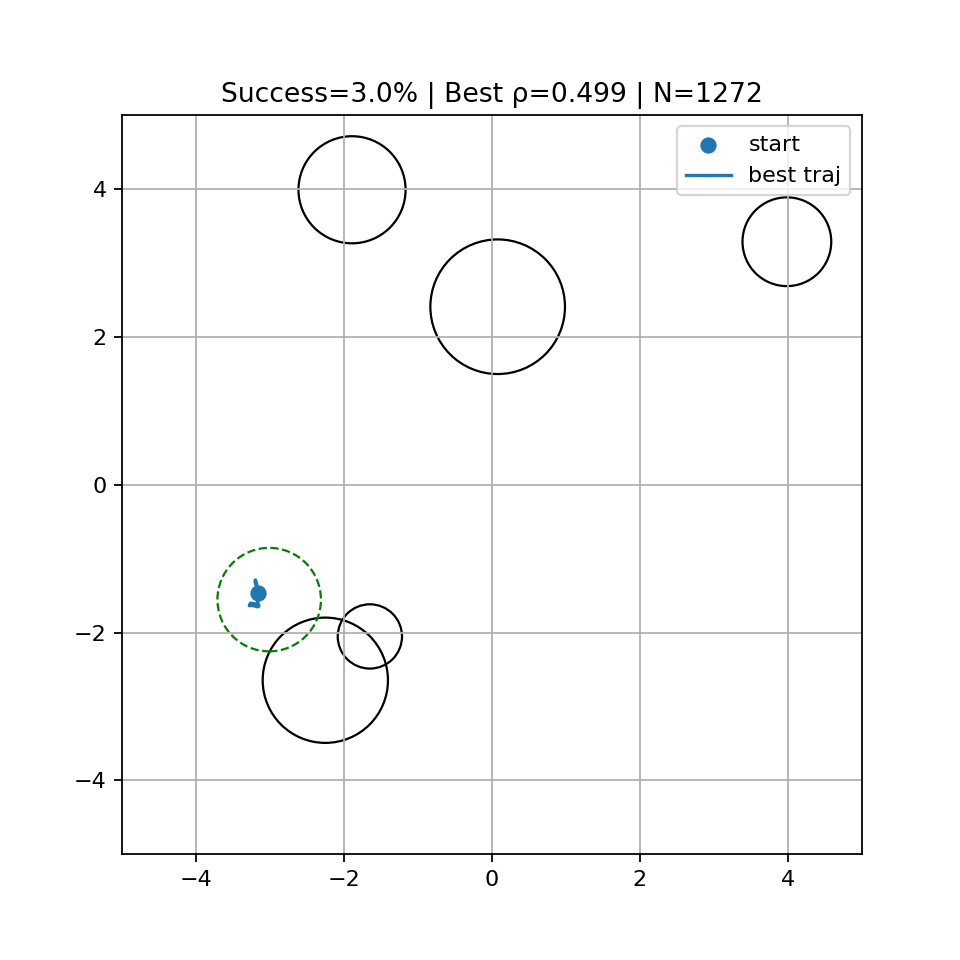
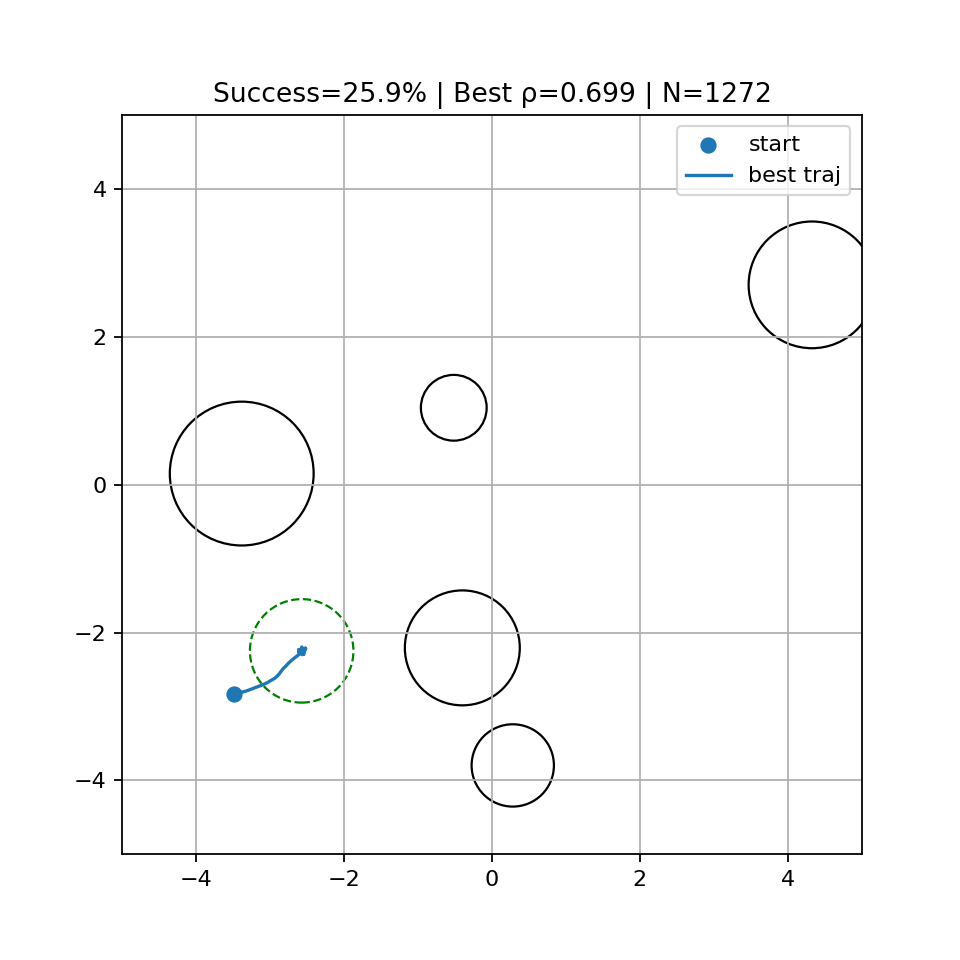
made some changes

diff --git a/repair.py b/repair.py
@@ -1,17 +1,13 @@
 import torch
 
 @torch.no_grad()
-def one_step_repair(x0, u_seq, obs_xy, obs_r, dt=0.1, alpha=0.6, d_safe=0.15):
+def one_step_repair(x0, u_seq, obs_xy, obs_r, dt=0.1, alpha=1.2, d_safe=0.25):
     """
-    x0:   (B,2)
-    u_seq:(B,T,2) controls
-    obs_xy:(M,2), obs_r:(M,)
-    Returns: repaired controls (B,T,2)
-    Idea: simulate once -> for each t, if too close to any obstacle, add a small
-          repulsive velocity along the (pos - obs_center) direction.
+    Stronger repulsion: bigger alpha and radius. Single cheap pass.
     """
     device = u_seq.device
-    B,T,_ = u_seq.shape
+    B, T, _ = u_seq.shape
+
     # simulate once
     x = x0.clone()
     traj = []
@@ -21,36 +17,26 @@ def one_step_repair(x0, u_seq, obs_xy, obs_r, dt=0.1, alpha=0.6, d_safe=0.15):
     xy = torch.stack(traj, dim=1)  # (B,T,2)
 
     if obs_xy.numel() == 0:
-        return u_seq  # nothing to repair
+        return u_seq
 
-    # compute min signed distance and repulsive directions
-    # signed distance: dist - r  (negative = inside)
-    # we add repulsion if sd < d_safe
     M = obs_xy.shape[0]
-    # expand for vectorization
-    xy_bt2 = xy.unsqueeze(2)              # (B,T,1,2)
-    obs_m2 = obs_xy.view(1,1,M,2)         # (1,1,M,2)
-    r_m1   = obs_r.view(1,1,M,1)          # (1,1,M,1)
-    vec = xy_bt2 - obs_m2                 # (B,T,M,2)
+    xy_bt2 = xy.unsqueeze(2)                  # (B,T,1,2)
+    obs_m2 = obs_xy.view(1, 1, M, 2)          # (1,1,M,2)
+    r_m1   = obs_r.view(1, 1, M, 1)           # (1,1,M,1)
+    vec = xy_bt2 - obs_m2                     # (B,T,M,2)
     dist = torch.linalg.norm(vec + 1e-9, dim=-1, keepdim=True)  # (B,T,M,1)
-    sd = dist - r_m1                      # (B,T,M,1)
+    sd = dist - r_m1                          # (B,T,M,1)
 
-    # find the most violating obstacle per (B,T)
-    sd_min, idx = sd.squeeze(-1).min(dim=2)  # (B,T)
-    violating = sd_min < d_safe              # (B,T) boolean
+    sd_min, idx = sd.squeeze(-1).min(dim=2)   # (B,T)
+    violating = sd_min < d_safe               # (B,T)
 
-    # repulsion vector from the most violating obstacle
-    chosen_vec = torch.gather(vec, 2, idx.unsqueeze(-1).unsqueeze(-1).expand(-1,-1,-1,2)).squeeze(2)  # (B,T,2)
-    chosen_dist = torch.gather(dist.squeeze(-1), 2, idx.unsqueeze(-1)).squeeze(2)  # (B,T)
+    chosen_vec = torch.gather(vec, 2, idx.unsqueeze(-1).unsqueeze(-1).expand(-1, -1, -1, 2)).squeeze(2)  # (B,T,2)
+    chosen_dist = torch.gather(dist.squeeze(-1), 2, idx.unsqueeze(-1)).squeeze(2)                        # (B,T)
 
-    # unit direction (avoid div by zero)
     dir_unit = chosen_vec / (chosen_dist.unsqueeze(-1) + 1e-6)
-
-    # magnitude proportional to (d_safe - sd_min), clipped
     mag = torch.clamp(d_safe - sd_min, min=0.0, max=d_safe) * alpha  # (B,T)
-    delta_u = dir_unit * mag.unsqueeze(-1)  # (B,T,2)
 
-    # apply only where violating
+    delta_u = dir_unit * mag.unsqueeze(-1)   # (B,T,2)
     mask = violating.unsqueeze(-1).float()
     u_repaired = u_seq + mask * delta_u
     return u_repaired

diff --git a/envs.py b/envs.py
@@ -16,15 +16,36 @@ class PointMassEnv2D:
             traj.append(x.clone())
         return torch.stack(traj, dim=1)  # (B,T,2)
 
+def _min_signed_dist(points, obs_xy, obs_r):
+    # points: (B,2), obs_xy: (M,2), obs_r: (M,)
+    if obs_xy.numel() == 0:
+        return torch.full((points.shape[0],), 1e6, device=points.device)
+    vec = points.unsqueeze(1) - obs_xy.unsqueeze(0)      # (B,M,2)
+    dist = torch.linalg.norm(vec + 1e-9, dim=-1)         # (B,M)
+    sd = dist - obs_r.unsqueeze(0)                        # (B,M)
+    return sd.min(dim=1).values                           # (B,)
+
 def random_world(B, num_obstacles=5, bounds=(-5, 5, -5, 5), device='cpu'):
     """
-    Create small world tensors on CPU first to avoid flaky OOM on Windows/WDDM,
-    then move them to the target device.
+    Create world on CPU then move to device. Ensure x0 is not inside obstacles.
     """
     xmin, xmax, ymin, ymax = bounds
-    obs_xy = torch.empty((num_obstacles, 2)).uniform_(xmin + 0.5, xmax - 0.5).to(device)
-    obs_r  = torch.empty((num_obstacles,)).uniform_(0.4, 1.0).to(device)
-    goal_xy = torch.empty((2,)).uniform_(xmin + 1.0, xmax - 1.0).to(device)
-    goal_r  = torch.tensor(0.7).to(device)
-    x0      = torch.empty((B, 2)).uniform_(xmin + 1.0, xmax - 1.0).to(device)
-    return x0, obs_xy, obs_r, goal_xy, goal_r
+    # world
+    obs_xy = torch.empty((num_obstacles, 2)).uniform_(xmin + 0.5, xmax - 0.5)
+    obs_r  = torch.empty((num_obstacles,)).uniform_(0.4, 1.0)
+    goal_xy = torch.empty((2,)).uniform_(xmin + 1.0, xmax - 1.0)
+    goal_r  = torch.tensor(0.7)
+
+    # spawn starts with a small safety margin
+    x0 = torch.empty((B, 2)).uniform_(xmin + 1.0, xmax - 1.0)
+    margin = 0.10
+    for _ in range(6):  # a few retries to fix invalid starts
+        sd = _min_signed_dist(x0, obs_xy, obs_r)  # (B,)
+        bad = sd < margin
+        if not bad.any():
+            break
+        # resample only the bad ones
+        x0[bad] = torch.empty((bad.sum(), 2)).uniform_(xmin + 1.0, xmax - 1.0)
+    # move tensors to device
+    return (x0.to(device), obs_xy.to(device), obs_r.to(device),
+            goal_xy.to(device), goal_r.to(device))

diff --git a/run_demo_advanced.py b/run_demo_advanced.py
@@ -45,12 +45,17 @@ def main(args):
     env = PointMassEnv2D(dt=args.dt)
     x0, obs_xy, obs_r, goal_xy, goal_r = random_world(N, args.num_obstacles, device=device)
 
-    from repair import one_step_repair
+    from guidance import add_goal_bias
+    from repair   import one_step_repair
 
     t0 = time.time()
-    u_seq = sample_with_ddpm_or_fallback(N, args.T, device=device, max_speed=1.6)  # gentler default
-    # one-step local repair (cheap) to push away from obstacles
-    u_seq = one_step_repair(x0, u_seq, obs_xy, obs_r, dt=args.dt, alpha=0.6, d_safe=0.15)
+    # gentler sampler (you already have the gentler defaults in samplers.py)
+    u_seq = sample_with_ddpm_or_fallback(N, args.T, device=device, max_speed=1.6)
+    # add a small goal-directed pull at each step
+    # u_seq = add_goal_bias(x0, u_seq, goal_xy, dt=args.dt, beta=0.35, max_speed=1.6)
+    # stronger one-step repair to clear obstacles
+    u_seq = one_step_repair(x0, u_seq, obs_xy, obs_r, dt=args.dt, alpha=1.2, d_safe=0.25)
+    # simulate for evaluation
     traj  = env.simulate(x0, u_seq)
     t1 = time.time()
 

diff --git a/guidance.py b/guidance.py
@@ -1,0 +1,29 @@
+import torch
+
+@torch.no_grad()
+def add_goal_bias(x0, u_seq, goal_xy, dt=0.1, beta=0.35, max_speed=1.6):
+    """
+    Iteratively propagate state and add a small drift each step toward the goal.
+    x0: (B,2)  u_seq: (B,T,2)  goal_xy: (2,)
+    """
+    B, T, _ = u_seq.shape
+    device = u_seq.device
+    x = x0.clone()
+    u = u_seq.clone()
+    g = goal_xy.view(1, 2).to(device).expand(B, 2)
+
+    for t in range(T):
+        # direction toward goal
+        dir_vec = g - x
+        norm = torch.norm(dir_vec, dim=-1, keepdim=True) + 1e-6
+        step = (dir_vec / norm) * (beta * max_speed)  # small pull each step
+
+        # blend and clip speed
+        u[:, t, :] = u[:, t, :] + step
+        sp = torch.norm(u[:, t, :], dim=-1, keepdim=True) + 1e-6
+        u[:, t, :] = u[:, t, :] * torch.clamp(max_speed / sp, max=1.0)
+
+        # roll state
+        x = x + u[:, t, :] * dt
+
+    return u
